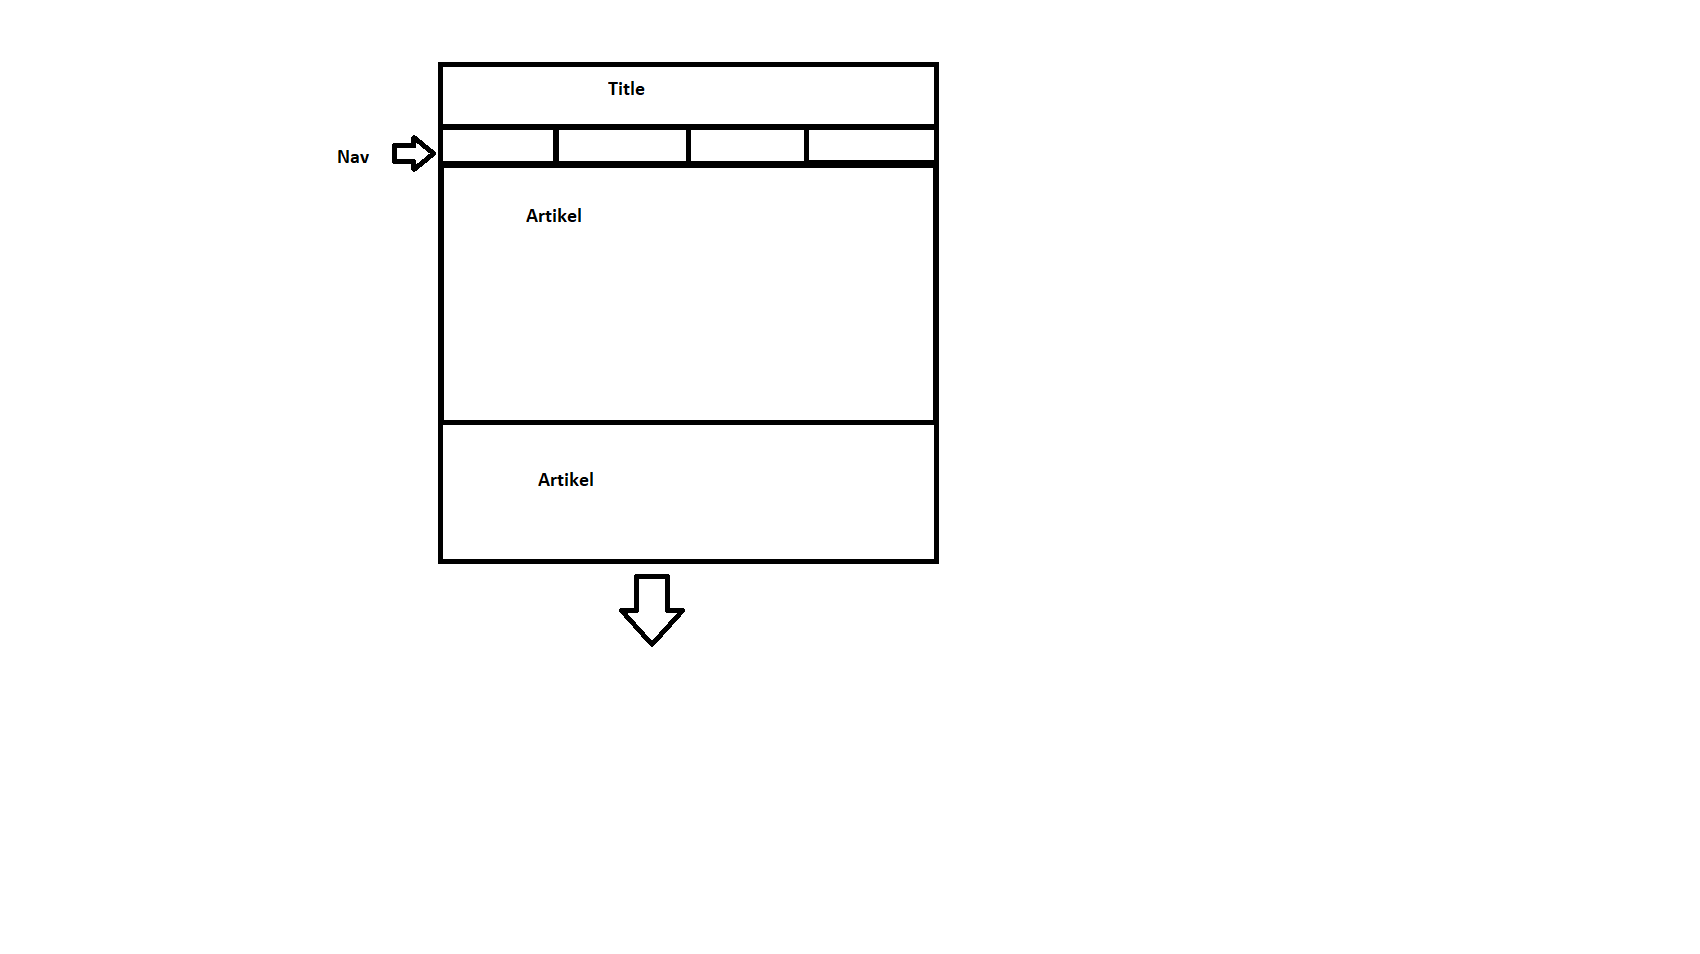
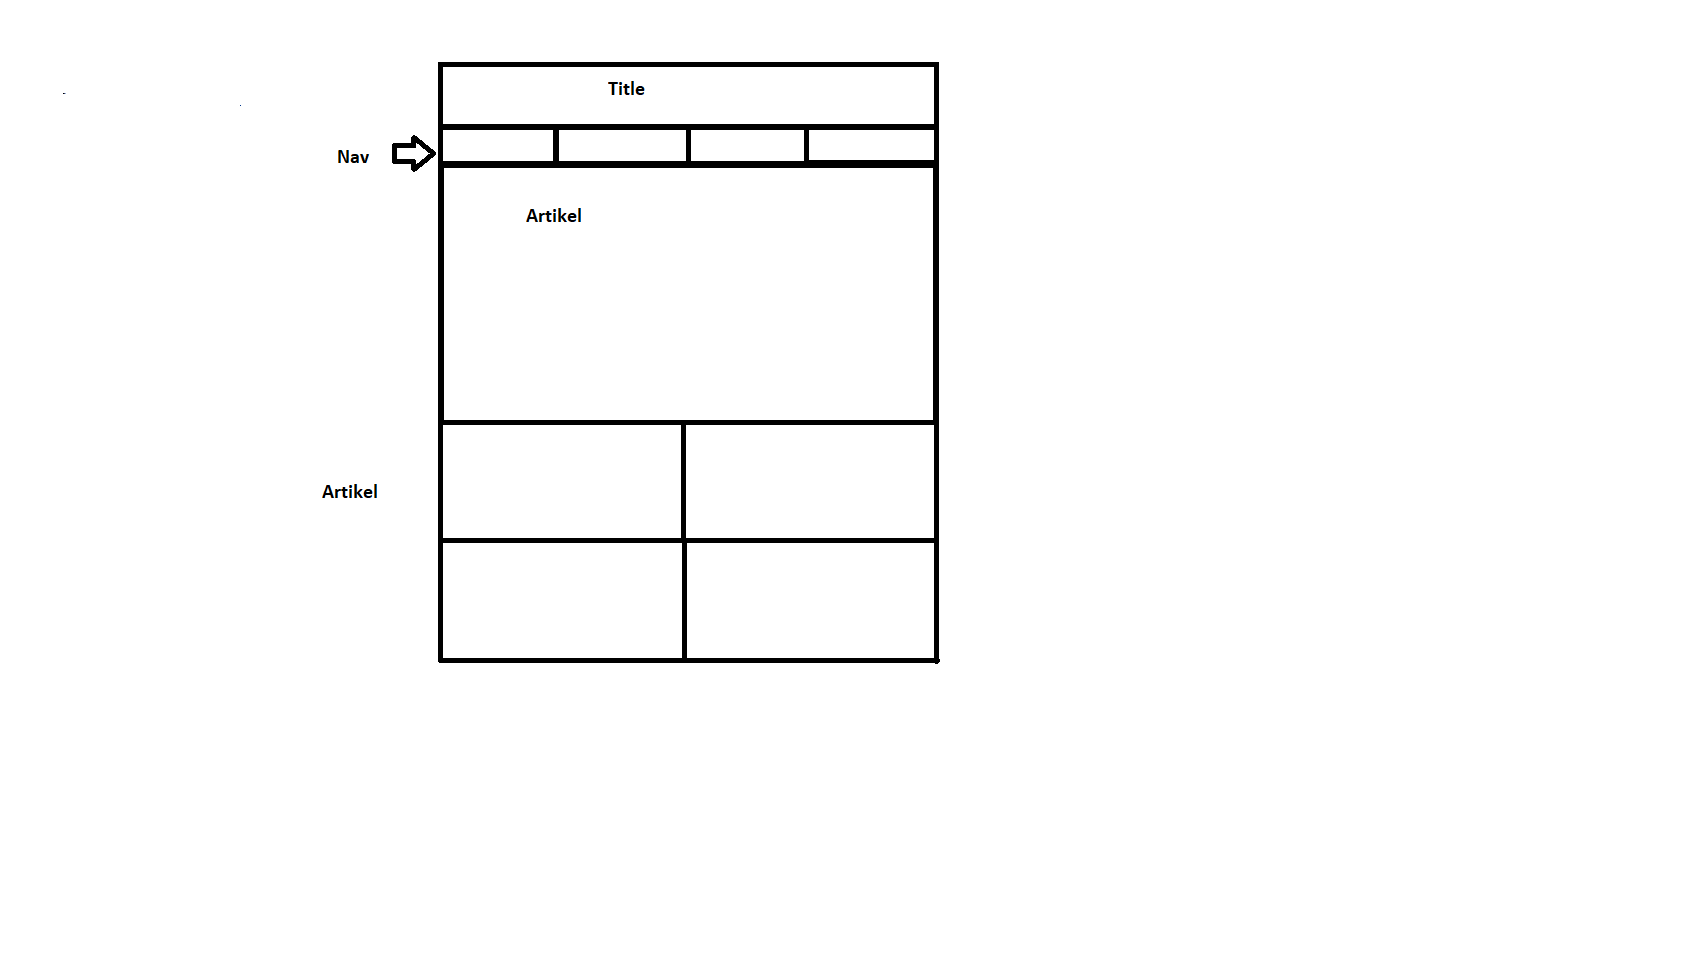
Lektion 2

Changed region(s): [[0.2494, 0.5472, 0.5612, 0.6992], [0.1871, 0.4864, 0.2182, 0.5472], [0.3118, 0.4864, 0.3429, 0.5168]]

diff --git a/misc/planering.html b/misc/planering.html
@@ -58,6 +58,7 @@
         <tr>
             <td>5</td>
             <td>
+                skissar och Skapande av sidor
                 <!-- Vad görs på lektionen vecka 5? -->
             </td>
             <td>
@@ -68,6 +69,7 @@
         <tr>
             <td>6</td>
             <td>
+                Hamburgermenu / Dropdown till alla sidor som behöver det
                 <!-- Vad görs på lektionen vecka 6? -->
             </td>
             <td>
@@ -142,9 +144,14 @@
     <!-- Här skriver du efter varje lektion. Vad har jag gjort? Vad gick bra? Vad gick mindre bra? Vad ska jag tänka på till nästa gång? -->
 
     <h3>Lektion vecka 4</h3>
+    <p>Idag så började jag att hitta vilken sida jag vilde förbättra och valde Aftonbladet sedan började jag titta runt på lite andra sidor för att titta vad de har gjort. Jag till sist började göra några skisser till dessa del sidor och jag är just nu klar med 3 av de 5 sidor jag skulle ha på min mobile</p>
     <!-- Fyll på med dokumentation här. -->
 
     <h3>Lektion vecka 5</h3>
+    <p>Idag så jobbade med att göra klar de skisser jag hade kvar till att göra
+        till mobilen. Sedan började jag lista ut hur min sida skulle fungera och började lägga in en liten start till varje sida så alla har en och 
+        var sin CSS.
+    </p>
     <!-- Fyll på med dokumentation här. -->
 
     <h3>Lektion vecka 6</h3>

diff --git a/css/Style.css b/css/Style.css
@@ -1,0 +1,42 @@
+
+@media screen and (max-width: 600px) {
+
+
+.homescreen{
+    
+
+    background-color: black;
+
+}
+
+.A-Z{
+    background-color: lightblue;
+
+}
+
+
+.Logga_in{
+
+}
+
+.Om_oss{
+
+
+}
+
+.TV{
+
+
+}
+
+}
+
+
+#main-menu{
+    visibility: hidden;
+}
+
+#main-menu.active {
+    visibility: visible;
+}   }
+

diff --git a/js/index.js b/js/index.js
@@ -1,9 +1,6 @@
-
-
-
-
-
-
+document.querySelector('#menu-button').addEventListener('click', function () {
+    document.querySelector('#main-menu').classList.toggle('active');
+});
 
 
 

diff --git a/Logga_in.html b/Logga_in.html
@@ -7,7 +7,7 @@
     <title>Titel</title>
     <link rel="stylesheet" type="text/css" href="css/Style.css">
 </head>
-<body class="homescreen">
+<body class="Logga_in">
   
     
 

diff --git a/Om_Oss.html b/Om_Oss.html
@@ -7,7 +7,7 @@
     <title>Titel</title>
     <link rel="stylesheet" type="text/css" href="css/Style.css">
 </head>
-<body class="homescreen">
+<body class="Om_oss">
   
     
 

diff --git a/A-Z.html b/A-Z.html
@@ -7,7 +7,7 @@
     <title>Titel</title>
     <link rel="stylesheet" type="text/css" href="css/Style.css">
 </head>
-<body class="homescreen">
+<body class="A-Z">
   
     
 

diff --git a/TV.html b/TV.html
@@ -7,7 +7,7 @@
     <title>Titel</title>
     <link rel="stylesheet" type="text/css" href="css/Style.css">
 </head>
-<body class="homescreen">
+<body class="TV">
   
     
 
